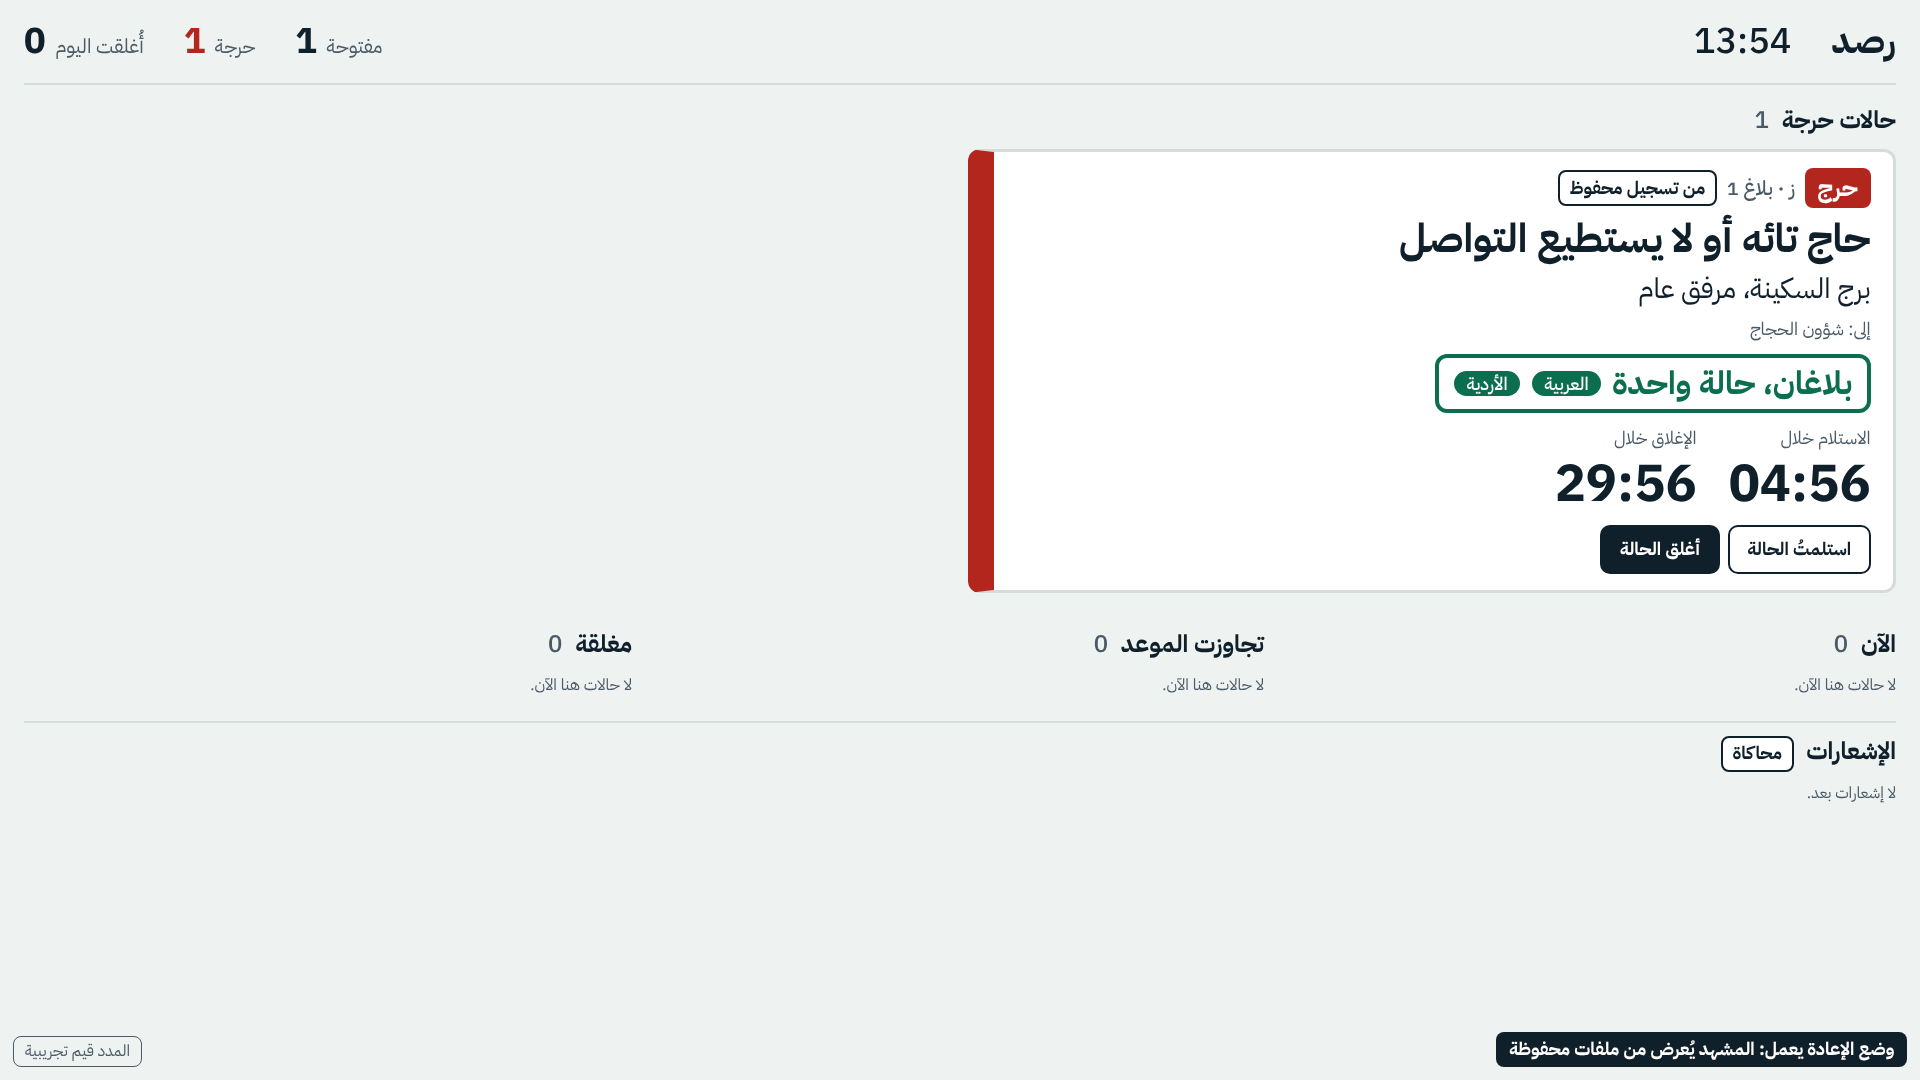
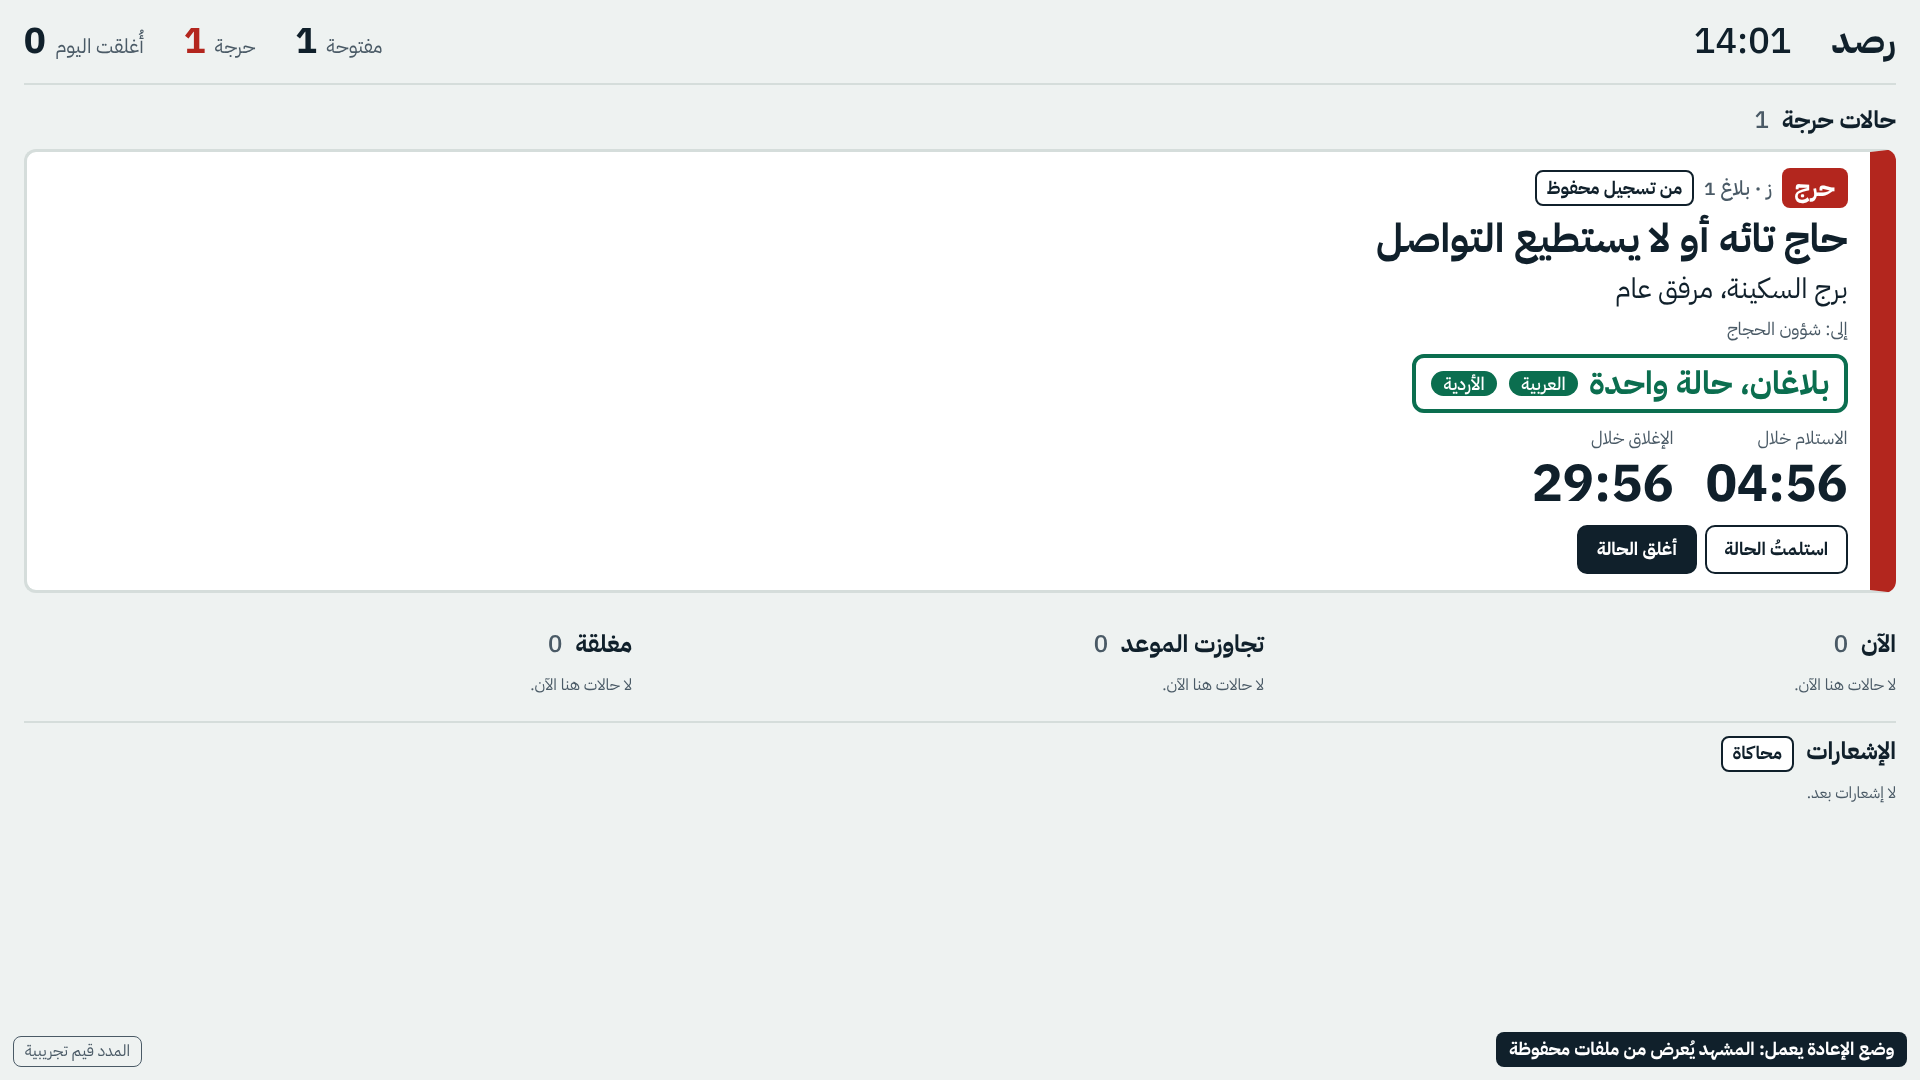
Design review: border on the start side, full-width critical band, one plus button on the phone page
- The thick priority border is on the start side of every card (the right,
  in Arabic), with logical CSS.
- One critical case spans the band; two or more share the row equally.
- Phone page: the record button is the only main action; the text box is
  the second option; the three attachments are behind one small plus button.
- New after-screenshots.

Claude-Session: https://claude.ai/code/session_014yvANP8jguTti4Q9X7Xmyt

Changed region(s): [[0.7188, 0.1222, 1.0, 0.55], [0.5, 0.1222, 0.5312, 0.55], [0.875, 0.0306, 0.9375, 0.0611]]

diff --git a/app/static/style.css b/app/static/style.css
@@ -69,12 +69,12 @@ input[type=text], input[type=password], select, textarea { padding: .4rem .6rem;
 .badge-urgent, .chip-urgent { background: var(--urgent); }
 .badge-medium, .chip-medium { background: var(--medium); }
 .badge-normal, .chip-normal { background: var(--normal); }
-/* The priority colour is a thick border on the LEFT of the card, as the brief asks. */
-.case { background: var(--card); border: 2px solid var(--line); border-left: 10px solid var(--normal); border-radius: 12px; padding: .7rem 1rem; margin-bottom: .8rem; }
-.case.priority-critical { border-left: 18px solid var(--critical); }
-.case.priority-urgent { border-left-color: var(--urgent); }
-.case.priority-medium { border-left-color: var(--medium); }
-.case.priority-normal { border-left-color: var(--normal); }
+/* The priority colour is a thick border on the START side of the card (the right, in Arabic). */
+.case { background: var(--card); border: 2px solid var(--line); border-inline-start: 10px solid var(--normal); border-radius: 12px; padding: .7rem 1rem; margin-bottom: .8rem; }
+.case.priority-critical { border-inline-start: 18px solid var(--critical); }
+.case.priority-urgent { border-inline-start-color: var(--urgent); }
+.case.priority-medium { border-inline-start-color: var(--medium); }
+.case.priority-normal { border-inline-start-color: var(--normal); }
 .case-head { display: flex; gap: .6rem; align-items: center; flex-wrap: wrap; }
 .case-type { font-weight: 700; margin: .3rem 0 0; line-height: 1.3; }
 .case-place, .case-owner, .case-identified, .case-closed { margin: .15rem 0; }
@@ -99,7 +99,8 @@ html.board-root { font-size: calc(16px * var(--board-scale, 1)); }
 .board h2 { font-size: 1.5rem; margin: 0 0 .6rem; display: flex; gap: .8rem; align-items: baseline; }
 .board h2 .count { color: var(--muted); font-weight: 500; font-variant-numeric: tabular-nums; }
 .band { margin-bottom: 1.2rem; }
-.band-cards { display: grid; grid-template-columns: repeat(auto-fill, minmax(44rem, 1fr)); gap: 1rem; }
+/* One critical case spans the band; two or more share the row equally. */
+.band-cards { display: grid; grid-auto-flow: column; grid-auto-columns: minmax(0, 1fr); gap: 1rem; }
 .columns { display: grid; grid-template-columns: repeat(3, minmax(0, 1fr)); gap: 1.5rem; align-items: start; }
 .board .case-type { font-size: 1.875rem; }            /* 30px bold */
 .board .case-place { font-size: 1.375rem; }           /* 22px */
@@ -111,7 +112,7 @@ html.board-root { font-size: calc(16px * var(--board-scale, 1)); }
 .clock { margin: 0; display: flex; flex-direction: column; }
 .clock span { font-size: 1.125rem; color: var(--muted); }
 .board .countdown { font-size: 2.5rem; line-height: 1.2; }  /* 40px, tabular digits */
-.board .case.big { padding: 1rem 1.4rem; border-width: 3px; border-left-width: 26px; }
+.board .case.big { padding: 1rem 1.4rem; border-width: 3px; border-inline-start-width: 26px; }
 .board .case.big .case-type { font-size: 2.5rem; }
 .board .case.big .case-place { font-size: 1.75rem; }
 .board .case.big .countdown { font-size: 3.25rem; }
@@ -153,14 +154,19 @@ html.board-root { font-size: calc(16px * var(--board-scale, 1)); }
 .composer { background: var(--card); border-top: 2px solid var(--line); padding: .6rem .8rem .8rem; }
 .composer-row { display: flex; gap: .5rem; align-items: flex-end; }
 .composer textarea { flex: 1; min-height: 48px; resize: none; }
-.record-row { display: flex; flex-direction: column; align-items: center; margin-top: .6rem; }
-button.record-main { width: 76px; height: 76px; min-height: 76px; border-radius: 50%; padding: 0; justify-content: center; background: var(--text); color: #FFFFFF; border: 4px solid var(--text); }
-button.record-main svg { width: 34px; height: 34px; fill: currentColor; }
+/* The one small "+" that opens the attachments. */
+.more { position: relative; }
+.more summary { list-style: none; width: 48px; height: 48px; border: 2px solid var(--text); border-radius: 50%; display: flex; align-items: center; justify-content: center; font-size: 1.6rem; font-weight: 700; cursor: pointer; }
+.more summary::-webkit-details-marker { display: none; }
+.more-list { position: absolute; bottom: 56px; inset-inline-start: 0; z-index: 4; background: var(--card); border: 2px solid var(--text); border-radius: 12px; padding: .5rem; display: flex; flex-direction: column; gap: .4rem; width: max-content; max-width: 80vw; }
+.more-list .file-button { min-height: 48px; font-weight: 500; border-width: 1px; }
+.more-list .note { margin: 0; max-width: 16rem; }
+/* The record button: the only main action, large, centred at the bottom. */
+.record-row { display: flex; flex-direction: column; align-items: center; margin-top: .8rem; }
+button.record-main { width: 88px; height: 88px; min-height: 88px; border-radius: 50%; padding: 0; justify-content: center; background: var(--text); color: #FFFFFF; border: 4px solid var(--text); }
+button.record-main svg { width: 40px; height: 40px; fill: currentColor; }
 button.record-main.recording { background: var(--card); color: var(--text); }
 .record-caption { font-weight: 700; margin: .3rem 0 0; }
-.attach-row { display: flex; flex-wrap: wrap; gap: .5rem; justify-content: center; margin-top: .6rem; }
-.attach-row .file-button { min-height: 44px; font-weight: 500; border-width: 1px; padding: .3rem .8rem; }
-.composer .note { text-align: center; margin: .4rem 0 0; }
 .photo-box { display: block; background: var(--bg); border: 2px dashed var(--muted); border-radius: 8px; padding: 1.2rem .6rem; text-align: center; margin: .3rem 0; }
 
 /* --- the Elm view and the before-and-after page --- */
@@ -201,7 +207,7 @@ button.big { width: 100%; min-height: 64px; font-size: 1.15rem; justify-content:
 
 @media (max-width: 900px) {
   .columns, .mockup-grid, .before-after { grid-template-columns: 1fr; }
-  .band-cards { grid-template-columns: 1fr; }
+  .band-cards { grid-auto-flow: row; }
   .board-head, .counts { flex-wrap: wrap; gap: 1rem; }
 }
 @media print {

diff --git a/app/templates/report.html b/app/templates/report.html
@@ -24,29 +24,34 @@
 <p id="report-message" class="message" role="alert" hidden></p>
 <p class="resend-row"><button type="button" id="resend" hidden>{{ copy.RESEND }}</button></p>
 <div class="composer">
+  {# Second option: the text box, with the one small "+" that opens the attachments. #}
   <div class="composer-row">
+    <details class="more" id="more">
+      <summary aria-label="{{ copy.MORE_ATTACHMENTS }}"><span aria-hidden="true">+</span></summary>
+      <div class="more-list">
+        <label class="file-button">{{ copy.ATTACH_AUDIO }}
+          <input id="audio-file" name="audio" type="file" accept="audio/*">
+        </label>
+        <label class="file-button">{{ copy.ATTACH_PHOTO }}
+          <input id="pilgrim-photo" name="pilgrim_photo" type="file" accept="image/*" capture="environment">
+        </label>
+        <label class="file-button" id="card-button" hidden>{{ copy.SHOW_CARD }}
+          <input id="card-photo" type="file" accept="image/*" capture="environment">
+        </label>
+        <p class="note">{{ copy.PHOTO_NOTE }}</p>
+      </div>
+    </details>
     <label class="visually-hidden" for="text">{{ copy.WRITE_HERE }}</label>
-    <textarea id="text" name="text" rows="2" placeholder="{{ copy.WRITE_HERE }}" dir="auto"></textarea>
-    <button type="submit" class="primary">{{ copy.SEND }}</button>
+    <textarea id="text" name="text" rows="1" placeholder="{{ copy.WRITE_HERE }}" dir="auto"></textarea>
+    <button type="submit">{{ copy.SEND }}</button>
   </div>
+  {# The main action: one large round button, centred at the bottom. #}
   <div class="record-row">
     <button type="button" id="record" class="record-main" aria-label="{{ copy.RECORD }}">
       <svg viewBox="0 0 24 24" aria-hidden="true" focusable="false"><path d="M12 15a4 4 0 0 0 4-4V6a4 4 0 0 0-8 0v5a4 4 0 0 0 4 4zm7-4a1 1 0 0 0-2 0 5 5 0 0 1-10 0 1 1 0 0 0-2 0 7 7 0 0 0 6 6.92V21H8a1 1 0 0 0 0 2h8a1 1 0 0 0 0-2h-3v-3.08A7 7 0 0 0 19 11z"/></svg>
     </button>
     <p id="record-caption" class="record-caption">{{ copy.RECORD }}</p>
   </div>
-  <div class="attach-row">
-    <label class="file-button">{{ copy.ATTACH_AUDIO }}
-      <input id="audio-file" name="audio" type="file" accept="audio/*">
-    </label>
-    <label class="file-button">{{ copy.ATTACH_PHOTO }}
-      <input id="pilgrim-photo" name="pilgrim_photo" type="file" accept="image/*" capture="environment">
-    </label>
-    <label class="file-button" id="card-button" hidden>{{ copy.SHOW_CARD }}
-      <input id="card-photo" type="file" accept="image/*" capture="environment">
-    </label>
-  </div>
-  <p class="note">{{ copy.PHOTO_NOTE }}</p>
 </div>
 </form>
 {% endblock %}

diff --git a/app/static/report.js b/app/static/report.js
@@ -14,6 +14,7 @@
   var cardButton = document.getElementById("card-button");
   var record = document.getElementById("record");
   var message = document.getElementById("report-message");
+  var more = document.getElementById("more");
   var lastCase = null;
 
   function say(words) { message.textContent = words || ""; message.hidden = !words; }
@@ -55,9 +56,10 @@
     var data = result.data;
     if (data.heard) { bubble(T.heard + ": " + data.heard, true); }
     var reply = bubble(data.message, false);
-    if (data.identified) { cardButton.hidden = true; return; }
+    if (data.identified) { cardButton.hidden = true; if (more) { more.open = false; } return; }
     if (data.case_id) { lastCase = data.case_id; }
-    if (data.type === "lost_pilgrim") { cardButton.hidden = false; }
+    // The card step is now possible: its button appears and the "+" opens, so nobody has to look for it.
+    if (data.type === "lost_pilgrim") { cardButton.hidden = false; if (more) { more.open = true; } }
     if (data.question) { ask(reply, data); }
   }
 

diff --git a/tests/test_design.py b/tests/test_design.py
@@ -256,3 +256,25 @@ def test_the_colours_of_the_brief_are_the_only_meaning_colours(site):
     for token in ("#EEF2F1", "#FFFFFF", "#10202B", "#4A5A66", "#D5DDDB", "#B3261E", "#B26A00", "#1F6F78", "#5B6770", "#0B6E4F"):
         assert token in css, token
     assert "PREFERS-REDUCED-MOTION" in css
+
+
+# --- the owner's review of the design (three changes) ---------------------------------------------------
+
+
+def test_the_priority_border_is_on_the_start_side_with_logical_css(site):
+    css = site.get("/static/style.css").text
+    assert "border-inline-start" in css and "border-left" not in css
+
+
+def test_the_record_button_is_the_only_main_action_on_the_phone_page(site):
+    page = site.get("/report").text
+    assert page.count("record-main") == 1 and 'class="primary"' not in page
+
+
+def test_the_attachments_are_behind_one_small_plus_button(site):
+    page = site.get("/report").text
+    more = page[page.index('<details class="more"') : page.index("</details>")]
+    assert f'aria-label="{copy.MORE_ATTACHMENTS}"' in more and ">+<" in more
+    for control in ('id="audio-file"', 'id="pilgrim-photo"', 'id="card-photo"'):
+        assert control in more
+    assert page.index('id="text"') < page.index('id="record"')  # the text box is the second option, above the record button

diff --git a/QUESTIONS.md b/QUESTIONS.md
@@ -386,8 +386,9 @@ as a messaging app. Choices I made where the brief was silent:
     the animation. With reduced motion there is no pulse.
 95. **Overdue takes no priority colour**, because each colour has one meaning:
     an overdue clock turns dark and says «تأخرت».
-96. **The thick priority border is on the left of every card**, as the brief
-    says "left", although the page reads right to left.
+96. **The thick priority border is on the start side of every card** (the
+    right, in Arabic), with logical CSS. The owner corrected the brief: "left"
+    was a mistake.
 97. **The label «المدد قيم تجريبية» stays on the board** as a small corner
     label, because unmeasured numbers must be labelled.
 98. **Accessibility review of the new screens** (`design:accessibility-review`).
@@ -401,4 +402,11 @@ as a messaging app. Choices I made where the brief was silent:
     does not scroll sideways. Not checked: a real screen reader.
 99. **Screenshots** before and after are in `screenshots/design/`, taken in
     replay mode (no API calls).
+
+**The owner approved 88 to 99 on review**, with three changes, all built: the
+border on the start side (96); one critical case spans the band and two or more
+share the row equally; on the phone page the record button is the only main
+action, the text box is the second option, and the three attachments are
+behind one small "+". My choice there: when the mock-card step becomes
+possible the "+" opens by itself, so the button is not hidden during the scene.
 

diff --git a/CLAUDE.md b/CLAUDE.md
@@ -18,7 +18,7 @@ these before changing anything:
   has not yet confirmed them, except the three listed below. Treat the rest as provisional.
 - `DEMO.md` (Arabic): demo-day guide. `WHATSAPP_COUNT.md` (Arabic): the counting tool.
 
-What exists (924 tests, `python -m pytest`, no key and no network needed):
+What exists (927 tests, `python -m pytest`, no key and no network needed):
 
 - `rasd/`: the rules. The model READS a message (`understand.py`); the team's
   tables DECIDE owner, priority and deadlines (`routing.py`); our code CHECKS
